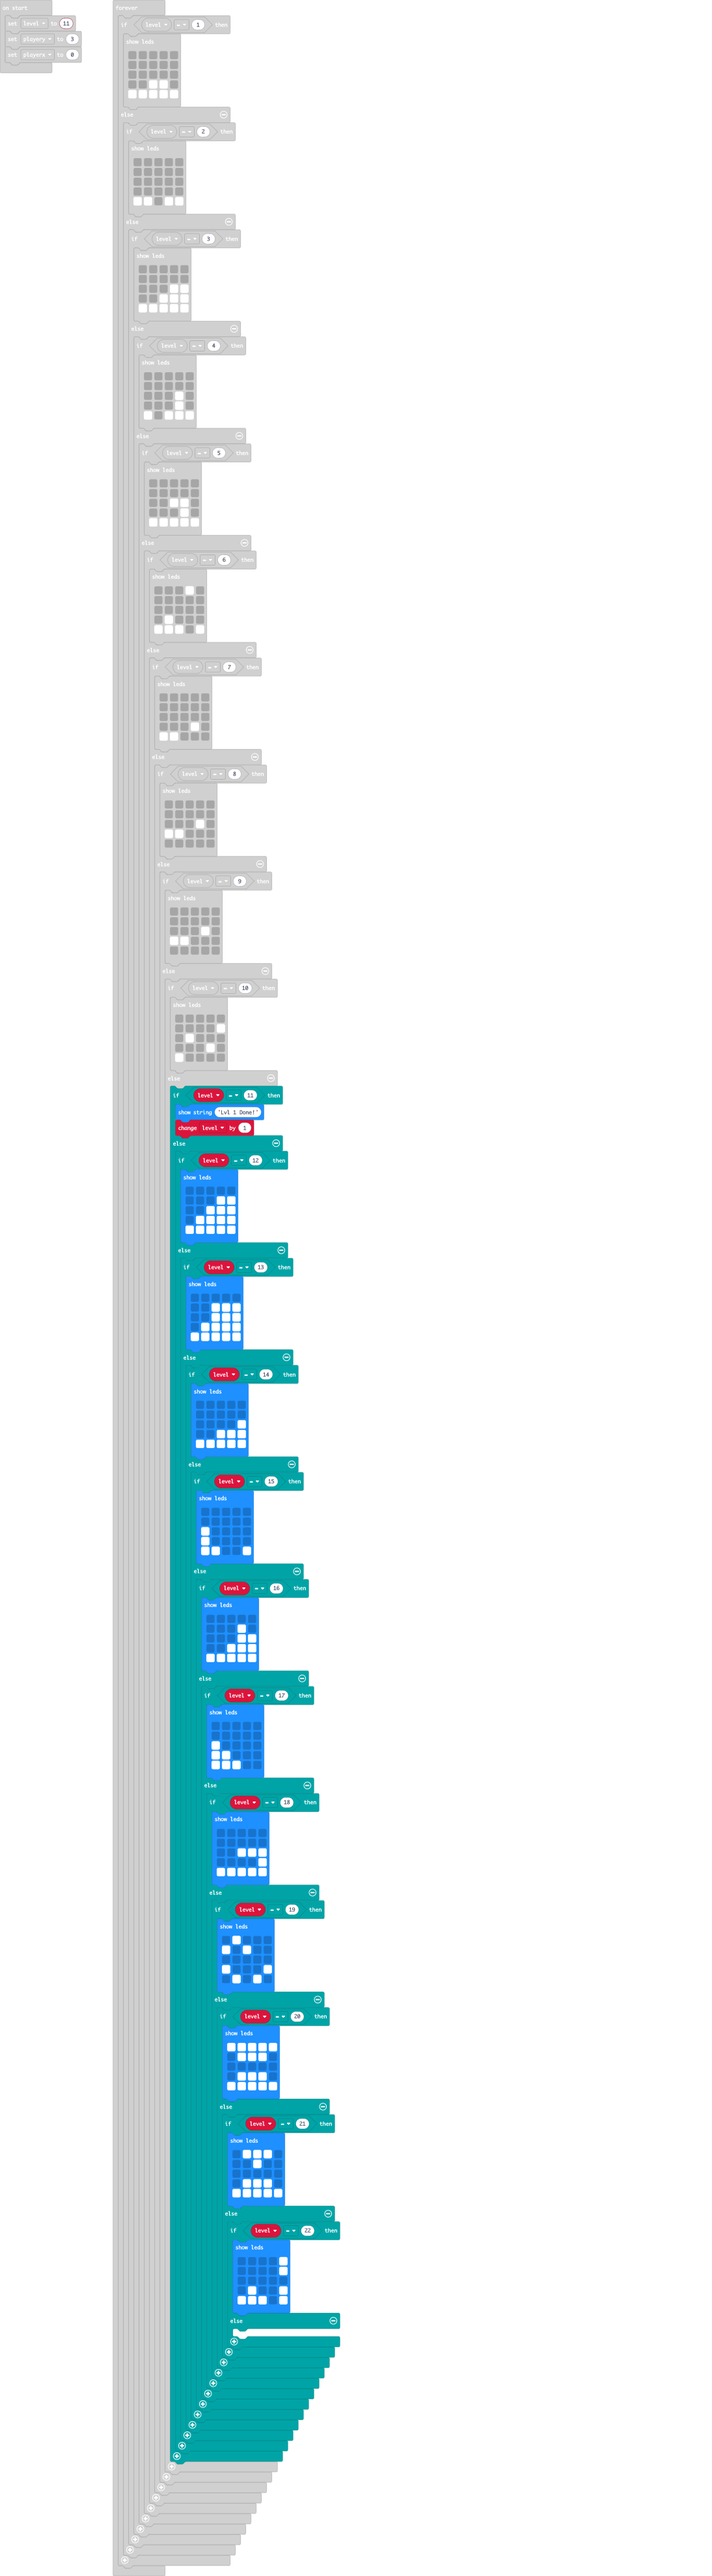
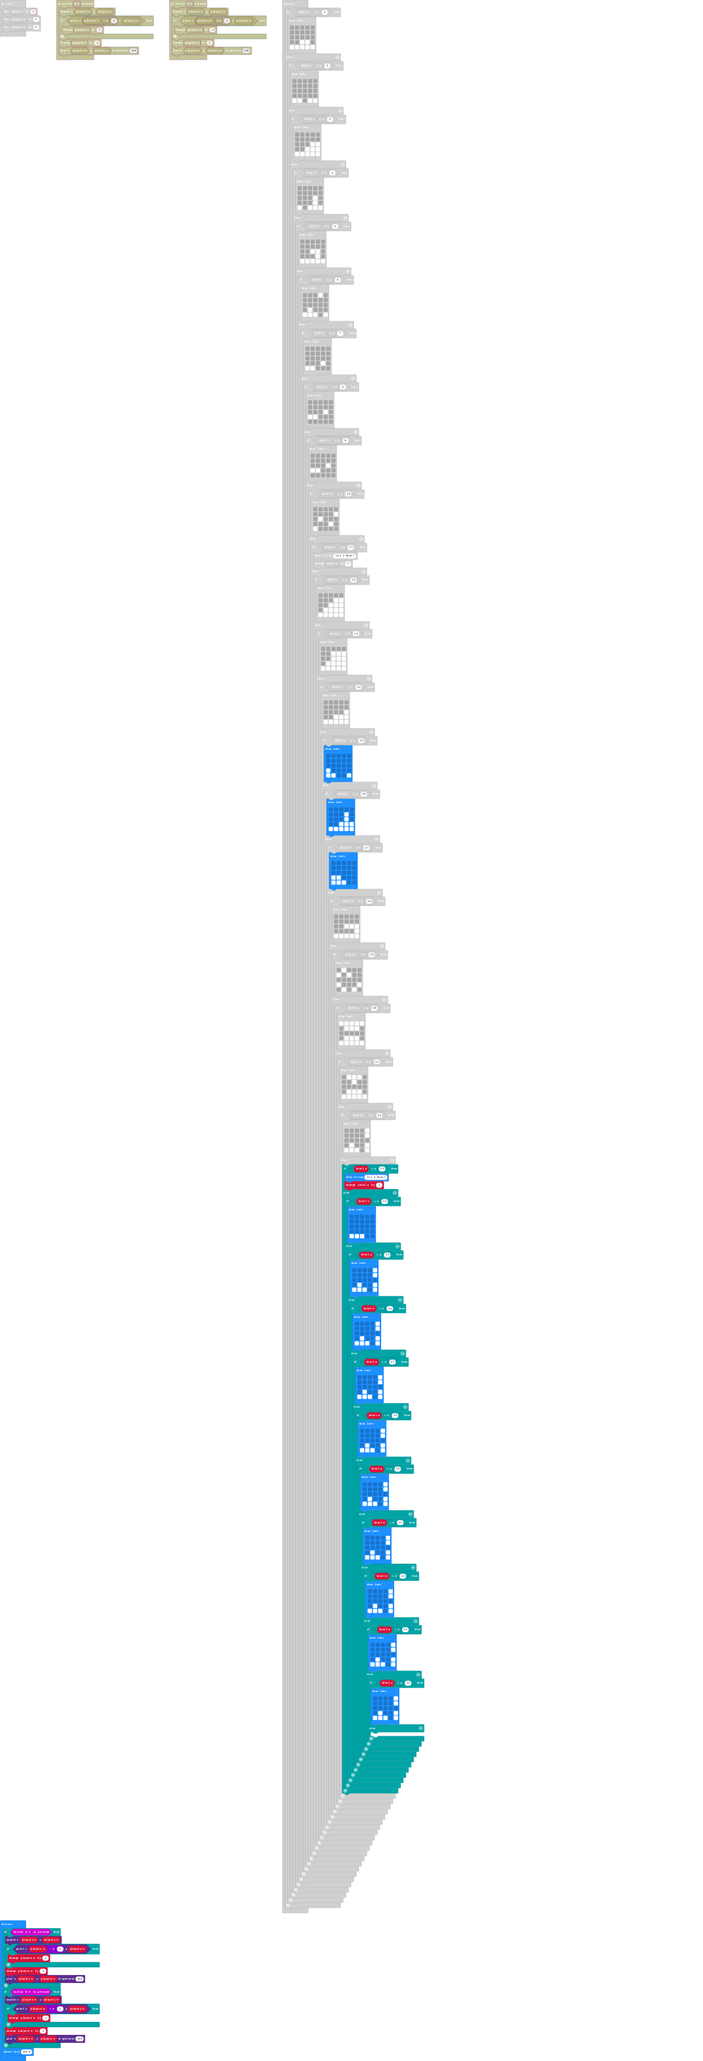
Better movement

diff --git a/main.ts b/main.ts
@@ -1,28 +1,12 @@
-input.onButtonPressed(Button.A, function () {
-    led.unplot(playerx, playery)
-    if (led.point(playerx - 1, playery)) {
-        playerx += 1
-    }
-    playerx += -1
-    led.plotBrightness(playerx, playery, 100)
-})
 input.onButtonPressed(Button.AB, function () {
     if (led.pointBrightness(playerx, playery + 1) == 255) {
         playery = playery - 3
     }
 })
-input.onButtonPressed(Button.B, function () {
-    led.unplot(playerx, playery)
-    if (led.point(playerx + 1, playery)) {
-        playerx += -1
-    }
-    playerx += 1
-    led.plotBrightness(playerx, playery, 100)
-})
 let gravity = 0
 let playerx = 0
 let playery = 0
-let level = 11
+let level = 1
 playery = 3
 playerx = 0
 basic.forever(function () {
@@ -176,7 +160,7 @@ basic.forever(function () {
                                                                 basic.showLeds(`
                                                                     . . . . .
                                                                     . . . . .
-                                                                    # . . . .
+                                                                    . . . . .
                                                                     # . . . .
                                                                     # # . . #
                                                                     `)
@@ -185,7 +169,7 @@ basic.forever(function () {
                                                                     basic.showLeds(`
                                                                         . . . . .
                                                                         . . . # .
-                                                                        . . . # #
+                                                                        . . . # .
                                                                         . . # # #
                                                                         # # # # #
                                                                         `)
@@ -194,7 +178,7 @@ basic.forever(function () {
                                                                         basic.showLeds(`
                                                                             . . . . .
                                                                             . . . . .
-                                                                            # . . . .
+                                                                            . . . . .
                                                                             # # . . .
                                                                             # # # . .
                                                                             `)
@@ -244,7 +228,112 @@ basic.forever(function () {
                                                                                                 # # # . #
                                                                                                 `)
                                                                                         } else {
-                                                                                        	
+                                                                                            if (level == 23) {
+                                                                                                basic.showString("Lvl 2 Done!")
+                                                                                                level += 1
+                                                                                            } else {
+                                                                                                if (level == 24) {
+                                                                                                    basic.showLeds(`
+                                                                                                        . . . . .
+                                                                                                        . . . . .
+                                                                                                        . . . . .
+                                                                                                        . . . . .
+                                                                                                        # # # . .
+                                                                                                        `)
+                                                                                                } else {
+                                                                                                    if (level == 25) {
+                                                                                                        basic.showLeds(`
+                                                                                                            . . . . #
+                                                                                                            . . . . #
+                                                                                                            . . . . .
+                                                                                                            . # . . #
+                                                                                                            # # # . #
+                                                                                                            `)
+                                                                                                    } else {
+                                                                                                        if (level == 26) {
+                                                                                                            basic.showLeds(`
+                                                                                                                . . . . #
+                                                                                                                . . . . #
+                                                                                                                . . . . .
+                                                                                                                . # . . #
+                                                                                                                # # # . #
+                                                                                                                `)
+                                                                                                        } else {
+                                                                                                            if (level == 27) {
+                                                                                                                basic.showLeds(`
+                                                                                                                    . . . . #
+                                                                                                                    . . . . #
+                                                                                                                    . . . . .
+                                                                                                                    . # . . #
+                                                                                                                    # # # . #
+                                                                                                                    `)
+                                                                                                            } else {
+                                                                                                                if (level == 28) {
+                                                                                                                    basic.showLeds(`
+                                                                                                                        . . . . #
+                                                                                                                        . . . . #
+                                                                                                                        . . . . .
+                                                                                                                        . # . . #
+                                                                                                                        # # # . #
+                                                                                                                        `)
+                                                                                                                } else {
+                                                                                                                    if (level == 29) {
+                                                                                                                        basic.showLeds(`
+                                                                                                                            . . . . #
+                                                                                                                            . . . . #
+                                                                                                                            . . . . .
+                                                                                                                            . # . . #
+                                                                                                                            # # # . #
+                                                                                                                            `)
+                                                                                                                    } else {
+                                                                                                                        if (level == 22) {
+                                                                                                                            basic.showLeds(`
+                                                                                                                                . . . . #
+                                                                                                                                . . . . #
+                                                                                                                                . . . . .
+                                                                                                                                . # . . #
+                                                                                                                                # # # . #
+                                                                                                                                `)
+                                                                                                                        } else {
+                                                                                                                            if (level == 22) {
+                                                                                                                                basic.showLeds(`
+                                                                                                                                    . . . . #
+                                                                                                                                    . . . . #
+                                                                                                                                    . . . . .
+                                                                                                                                    . # . . #
+                                                                                                                                    # # # . #
+                                                                                                                                    `)
+                                                                                                                            } else {
+                                                                                                                                if (level == 22) {
+                                                                                                                                    basic.showLeds(`
+                                                                                                                                        . . . . #
+                                                                                                                                        . . . . #
+                                                                                                                                        . . . . .
+                                                                                                                                        . # . . #
+                                                                                                                                        # # # . #
+                                                                                                                                        `)
+                                                                                                                                } else {
+                                                                                                                                    if (level == 22) {
+                                                                                                                                        basic.showLeds(`
+                                                                                                                                            . . . . #
+                                                                                                                                            . . . . #
+                                                                                                                                            . . . . .
+                                                                                                                                            . # . . #
+                                                                                                                                            # # # . #
+                                                                                                                                            `)
+                                                                                                                                    } else {
+                                                                                                                                    	
+                                                                                                                                    }
+                                                                                                                                }
+                                                                                                                            }
+                                                                                                                        }
+                                                                                                                    }
+                                                                                                                }
+                                                                                                            }
+                                                                                                        }
+                                                                                                    }
+                                                                                                }
+                                                                                            }
                                                                                         }
                                                                                     }
                                                                                 }
@@ -267,6 +356,25 @@ basic.forever(function () {
             }
         }
     }
+})
+basic.forever(function () {
+    if (input.buttonIsPressed(Button.A)) {
+        led.unplot(playerx, playery)
+        if (led.point(playerx - 1, playery)) {
+            playerx += 1
+        }
+        playerx += -1
+        led.plotBrightness(playerx, playery, 100)
+    }
+    if (input.buttonIsPressed(Button.B)) {
+        led.unplot(playerx, playery)
+        if (led.point(playerx + 1, playery)) {
+            playerx += -1
+        }
+        playerx += 1
+        led.plotBrightness(playerx, playery, 100)
+    }
+    basic.pause(250)
 })
 basic.forever(function () {
     if (!(led.point(playerx, playery + 1))) {
